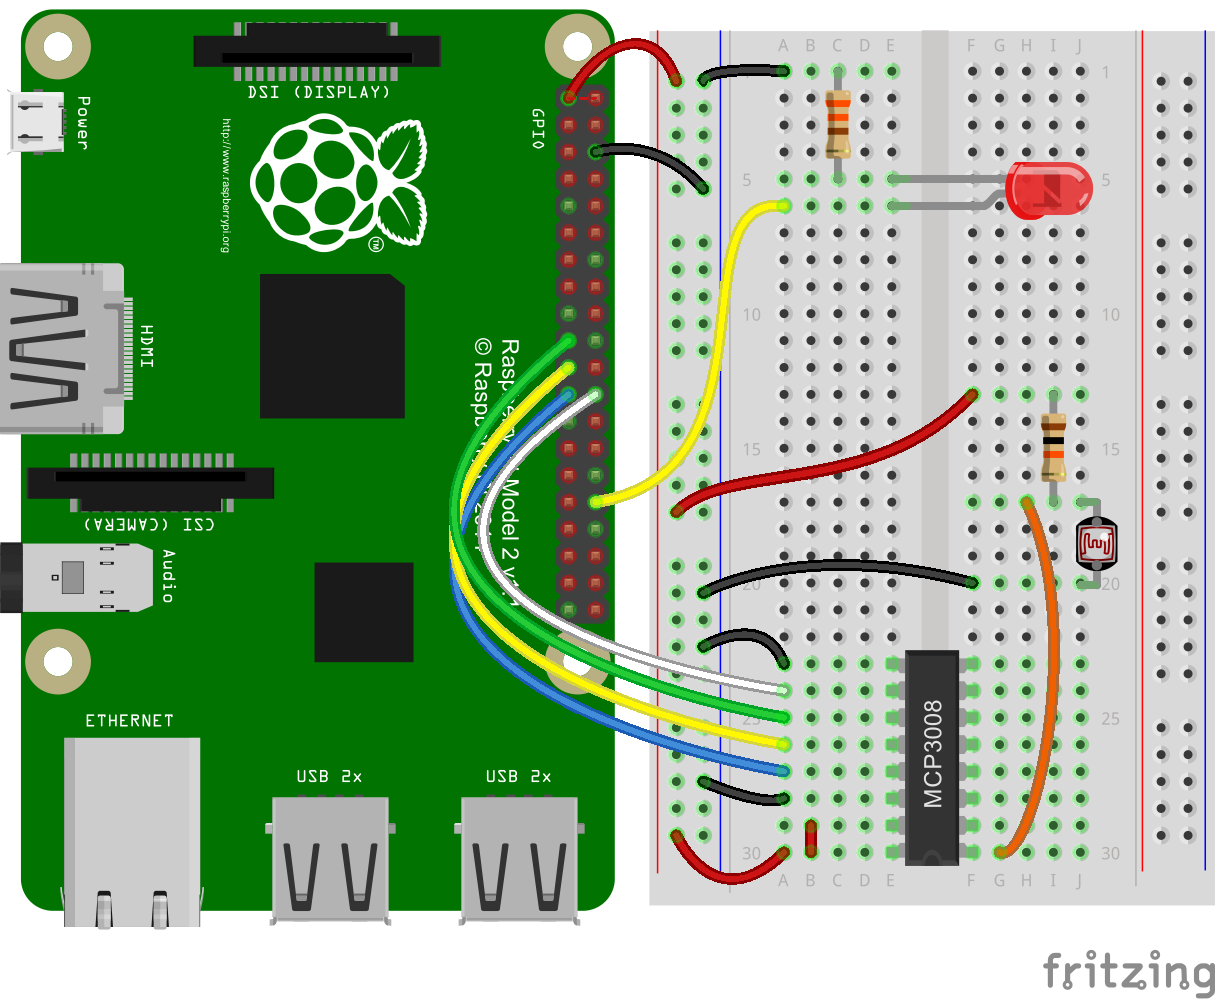
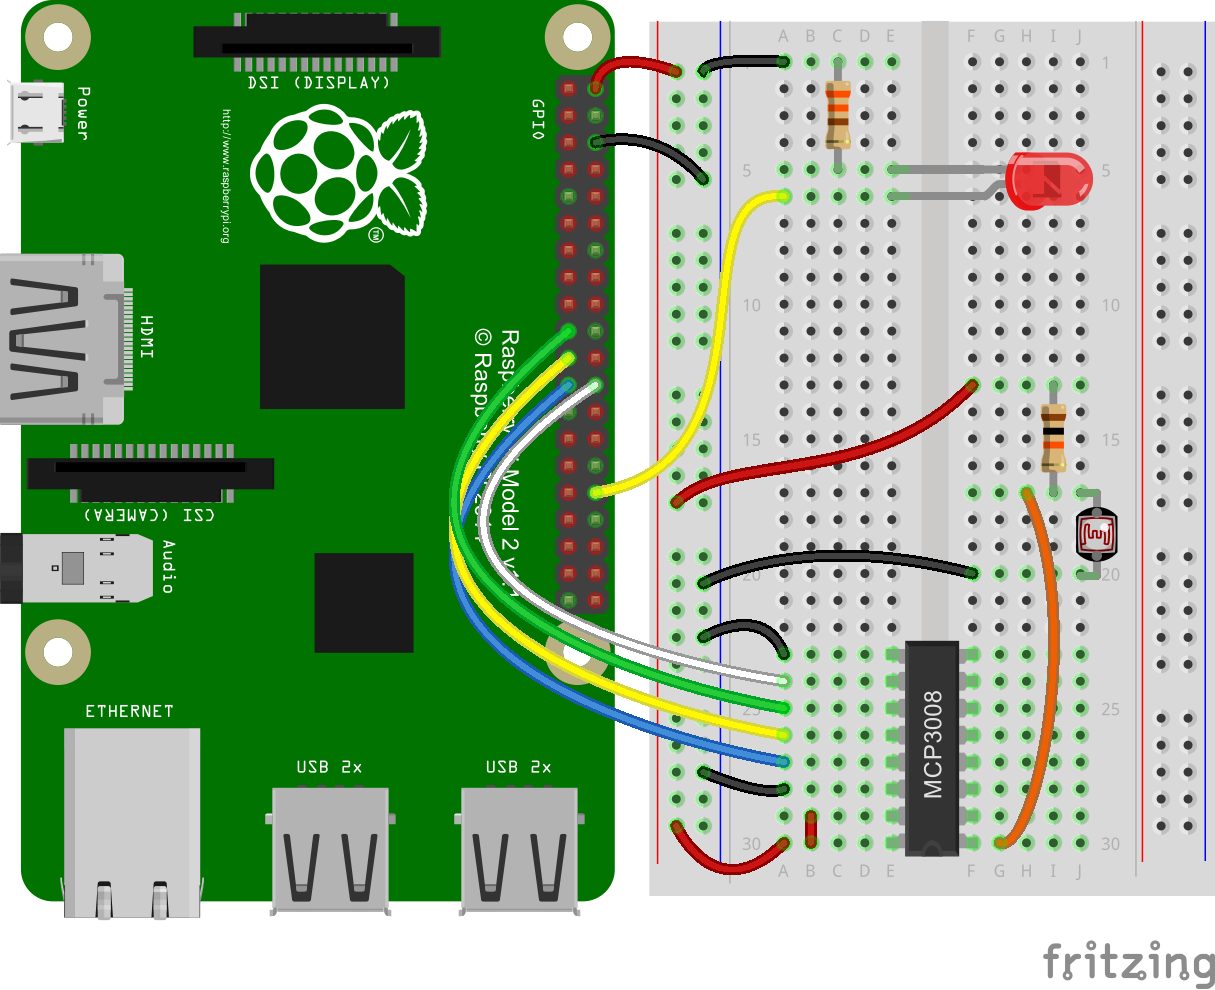
Updating Lab 03 images

diff --git a/pages/rpi2/rpi2-lab003.md b/pages/rpi2/rpi2-lab003.md
@@ -57,7 +57,7 @@ As the photoresistor increases its resistance (lower light intensity) more of th
 
 In short, the the darker it is, the more resistance the photoresistor provides and the more voltage is diverted to the ADC.
 
-Here are the specific wiring instructions.
+Here are the specific wiring instructions for the MCP3008 or MCP3208. For the MCP3002 use [this](/images/rpi2/rpi2_lab03_mcp3002_bb.png) diagram.
 
 <img src="/images/rpi2/rpi2_lab03_mcp3008_bb.png"/>
 
